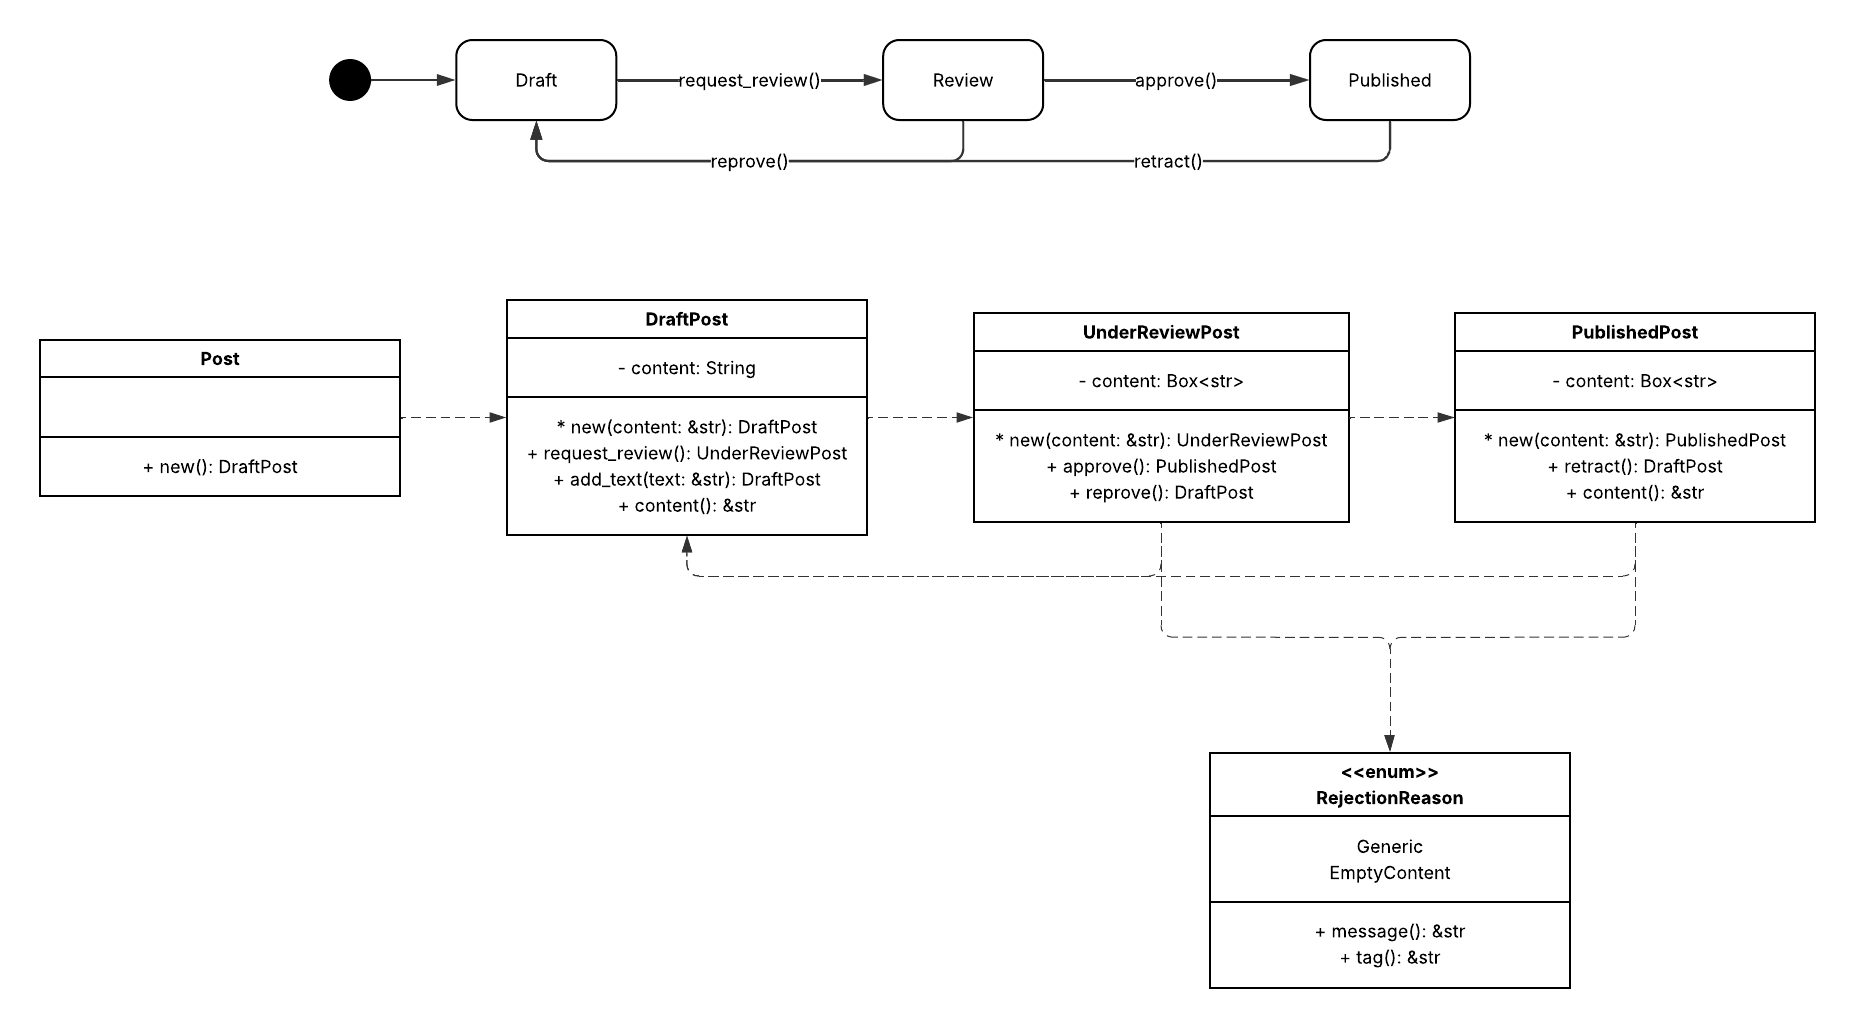
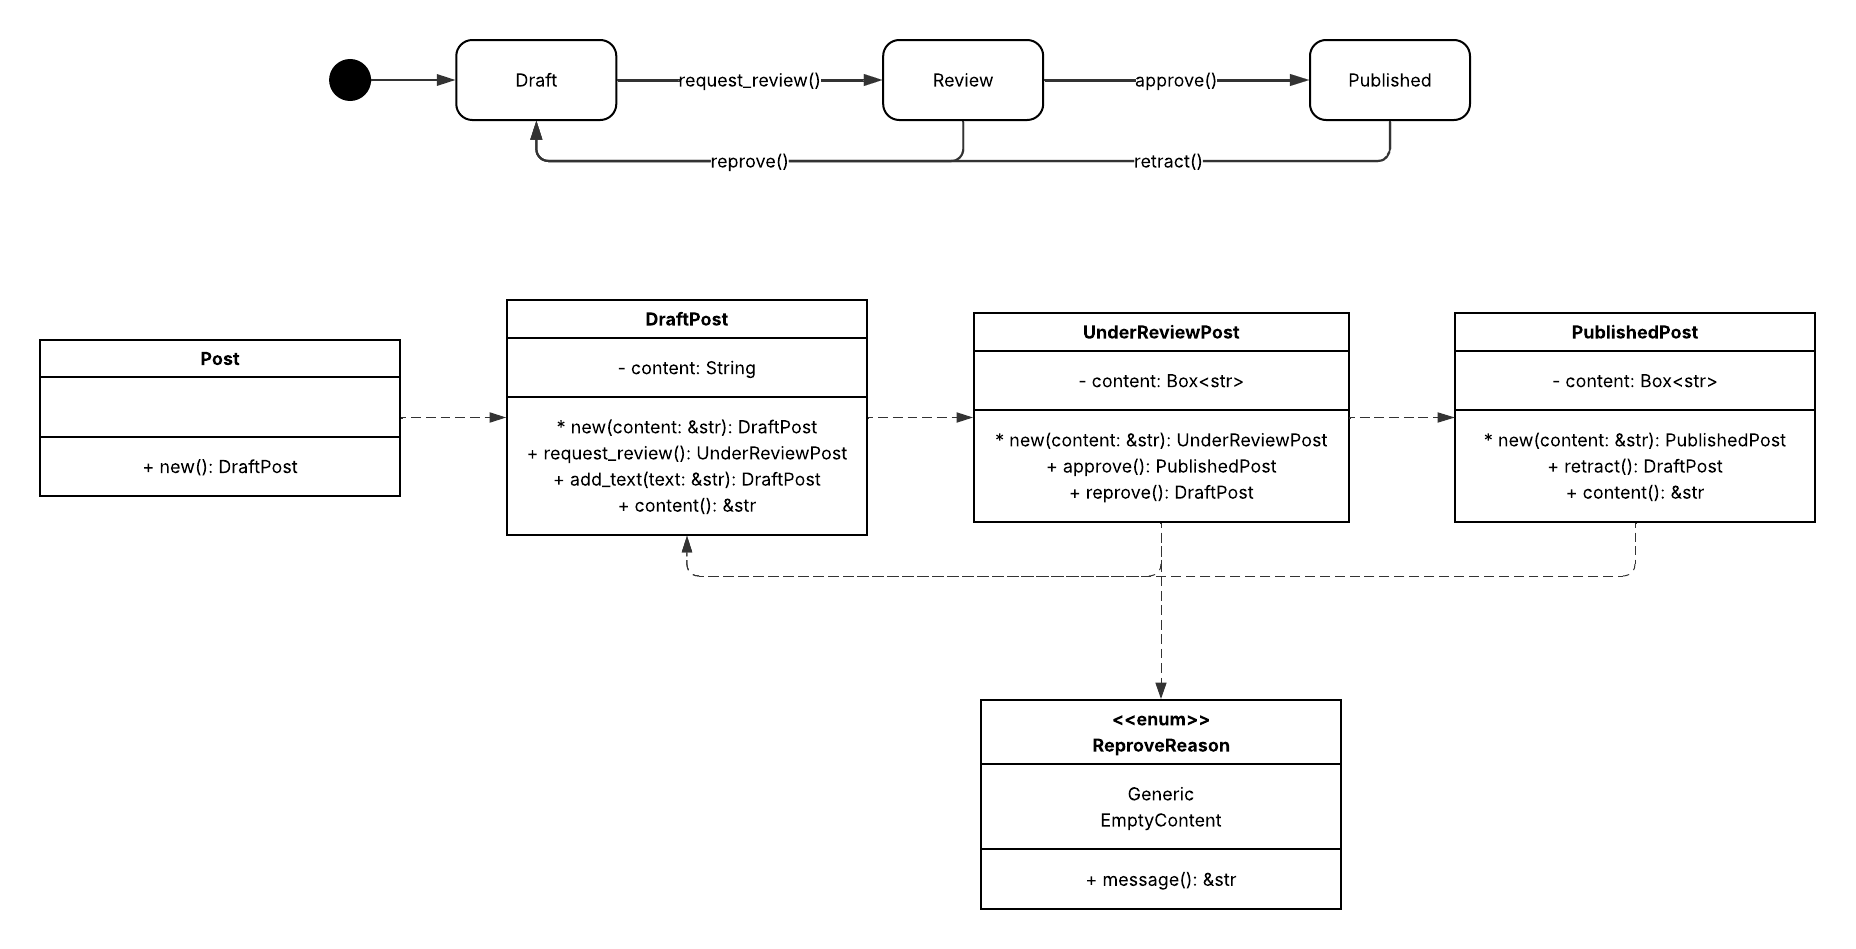
refactor(rejection_reason): rename RejectionReason to ReproveReason and update related logic
Updated the rejection reason handling to use ReproveReason instead of RejectionReason.
This change includes modifications to the message formatting and adjustments in the
UnderReviewPost implementation to reflect the new naming convention.

Remove tag method and move its logic to message method

Update related documentation

diff --git a/src/rejection_reason.rs b/src/rejection_reason.rs
@@ -1,53 +1,40 @@
-pub enum RejectionReason {
+pub enum ReproveReason {
     Generic,
     EmptyContent,
 }
 
-impl RejectionReason {
+impl ReproveReason {
     pub fn message(&self) -> &'static str {
         match self {
-            RejectionReason::Generic => {
-                "Your post was rejected. Please review the content and submit again \
-                for review."
+            ReproveReason::Generic => {
+                "[REPROVED] Your post was reproved. Please review the content and \
+                submit again for review."
             }
-            RejectionReason::EmptyContent => {
-                "Your post was rejected due to empty content. Please add some content \
-                and submit again for review."
+            ReproveReason::EmptyContent => {
+                "[REPROVED] Your post was reproved due to empty content. Please add \
+                some content and submit again for review."
             }
-        }
-    }
-
-    pub fn tag(&self) -> &'static str {
-        match self {
-            RejectionReason::Generic => "[REPROVED]",
-            RejectionReason::EmptyContent => "[REPROVED]",
         }
     }
 }
 
 #[cfg(test)]
 mod tests {
-    use super::RejectionReason;
+    use super::ReproveReason;
 
     #[test]
     fn message_returns_generic_msg() {
-        let reason = RejectionReason::Generic;
-        let expected_msg = "Your post was rejected. Please review the content and \
-            submit again for review.";
+        let reason = ReproveReason::Generic;
+        let expected_msg = "[REPROVED] Your post was reproved. Please review the \
+            content and submit again for review.";
         assert_eq!(expected_msg, reason.message());
     }
 
     #[test]
     fn message_returns_empty_content_msg() {
-        let reason = RejectionReason::EmptyContent;
-        let expected_msg = "Your post was rejected due to empty content. Please add \
-            some content and submit again for review.";
+        let reason = ReproveReason::EmptyContent;
+        let expected_msg = "[REPROVED] Your post was reproved due to empty content. \
+            Please add some content and submit again for review.";
         assert_eq!(expected_msg, reason.message());
-    }
-
-    #[test]
-    fn tag_returns_rejection_tag() {
-        assert_eq!("[REPROVED]", RejectionReason::Generic.tag());
-        assert_eq!("[REPROVED]", RejectionReason::EmptyContent.tag());
     }
 }

diff --git a/src/post/under_review.rs b/src/post/under_review.rs
@@ -1,5 +1,5 @@
 use super::{DraftPost, PublishedPost};
-use crate::RejectionReason;
+use crate::ReproveReason;
 
 pub struct UnderReviewPost {
     content: Box<str>,
@@ -17,9 +17,8 @@ impl UnderReviewPost {
     }
 
     pub fn reprove(self) -> DraftPost {
-        let reproved_tag = RejectionReason::Generic.tag();
-        let rejection_msg = RejectionReason::Generic.message();
-        let rejection_msg = format!("{reproved_tag}\n\n{rejection_msg}\n{}", self.content);
+        let rejection_msg = ReproveReason::Generic.message();
+        let rejection_msg = format!("{rejection_msg}\n{}", self.content);
         DraftPost::new(&rejection_msg)
     }
 }
@@ -27,7 +26,7 @@ impl UnderReviewPost {
 #[cfg(test)]
 mod tests {
     use super::UnderReviewPost;
-    use crate::RejectionReason;
+    use crate::ReproveReason;
 
     #[test]
     fn new_preserves_content() {
@@ -66,11 +65,7 @@ mod tests {
     #[test]
     fn reprove_inserts_message() {
         let post = UnderReviewPost::new("content").reprove();
-
-        let reproved_tag = RejectionReason::Generic.tag();
-        let rejection_msg = RejectionReason::Generic.message();
-        let rejection_msg = format!("{reproved_tag}\n\n{rejection_msg}");
-
+        let rejection_msg = ReproveReason::Generic.message();
         assert!(
             post.content().starts_with(&rejection_msg),
             "reprove should insert message in content"

diff --git a/tests/reprove_flow.rs b/tests/reprove_flow.rs
@@ -1,4 +1,4 @@
-use blog_rust::{RejectionReason, post};
+use blog_rust::{ReproveReason, post};
 
 #[test]
 fn reprove_flow_preserves_content() {
@@ -15,10 +15,7 @@ fn reprove_flow_insert_message_in_content() {
         .add_text("content")
         .request_review()
         .reprove();
-
-    let reproved_tag = RejectionReason::Generic.tag();
-    let rejection_msg = RejectionReason::Generic.message();
-    let rejection_msg = &format!("{reproved_tag}\n\n{rejection_msg}");
+    let rejection_msg = ReproveReason::Generic.message();
 
     assert!(
         post.content().starts_with(rejection_msg),

diff --git a/src/lib.rs b/src/lib.rs
@@ -1,4 +1,4 @@
 pub mod post;
 pub mod rejection_reason;
 
-pub use rejection_reason::RejectionReason;
+pub use rejection_reason::ReproveReason;
